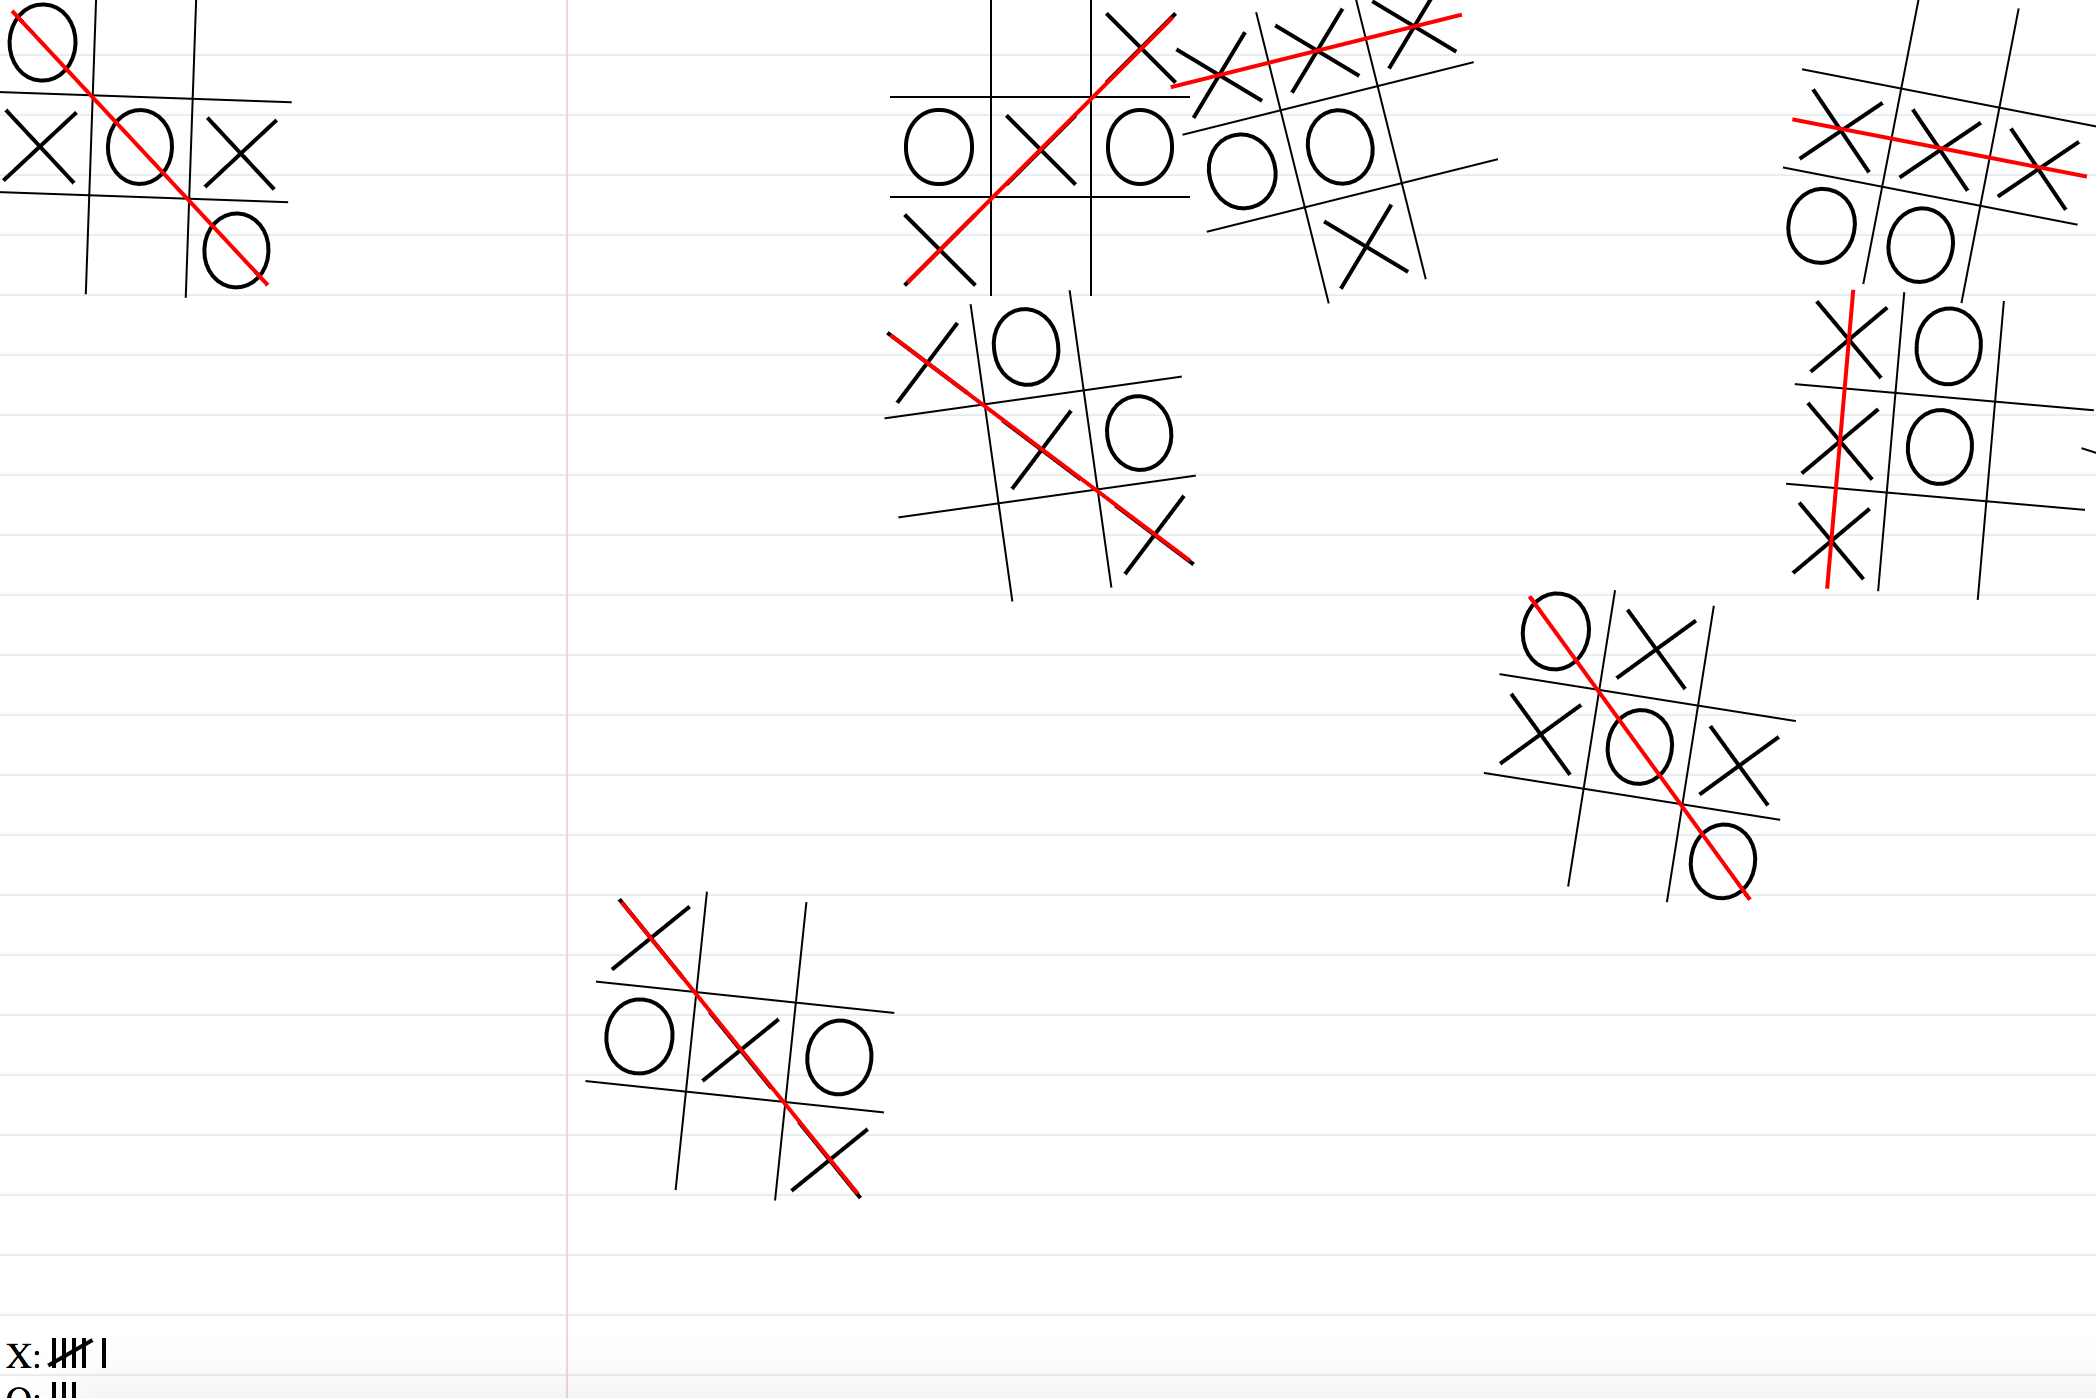
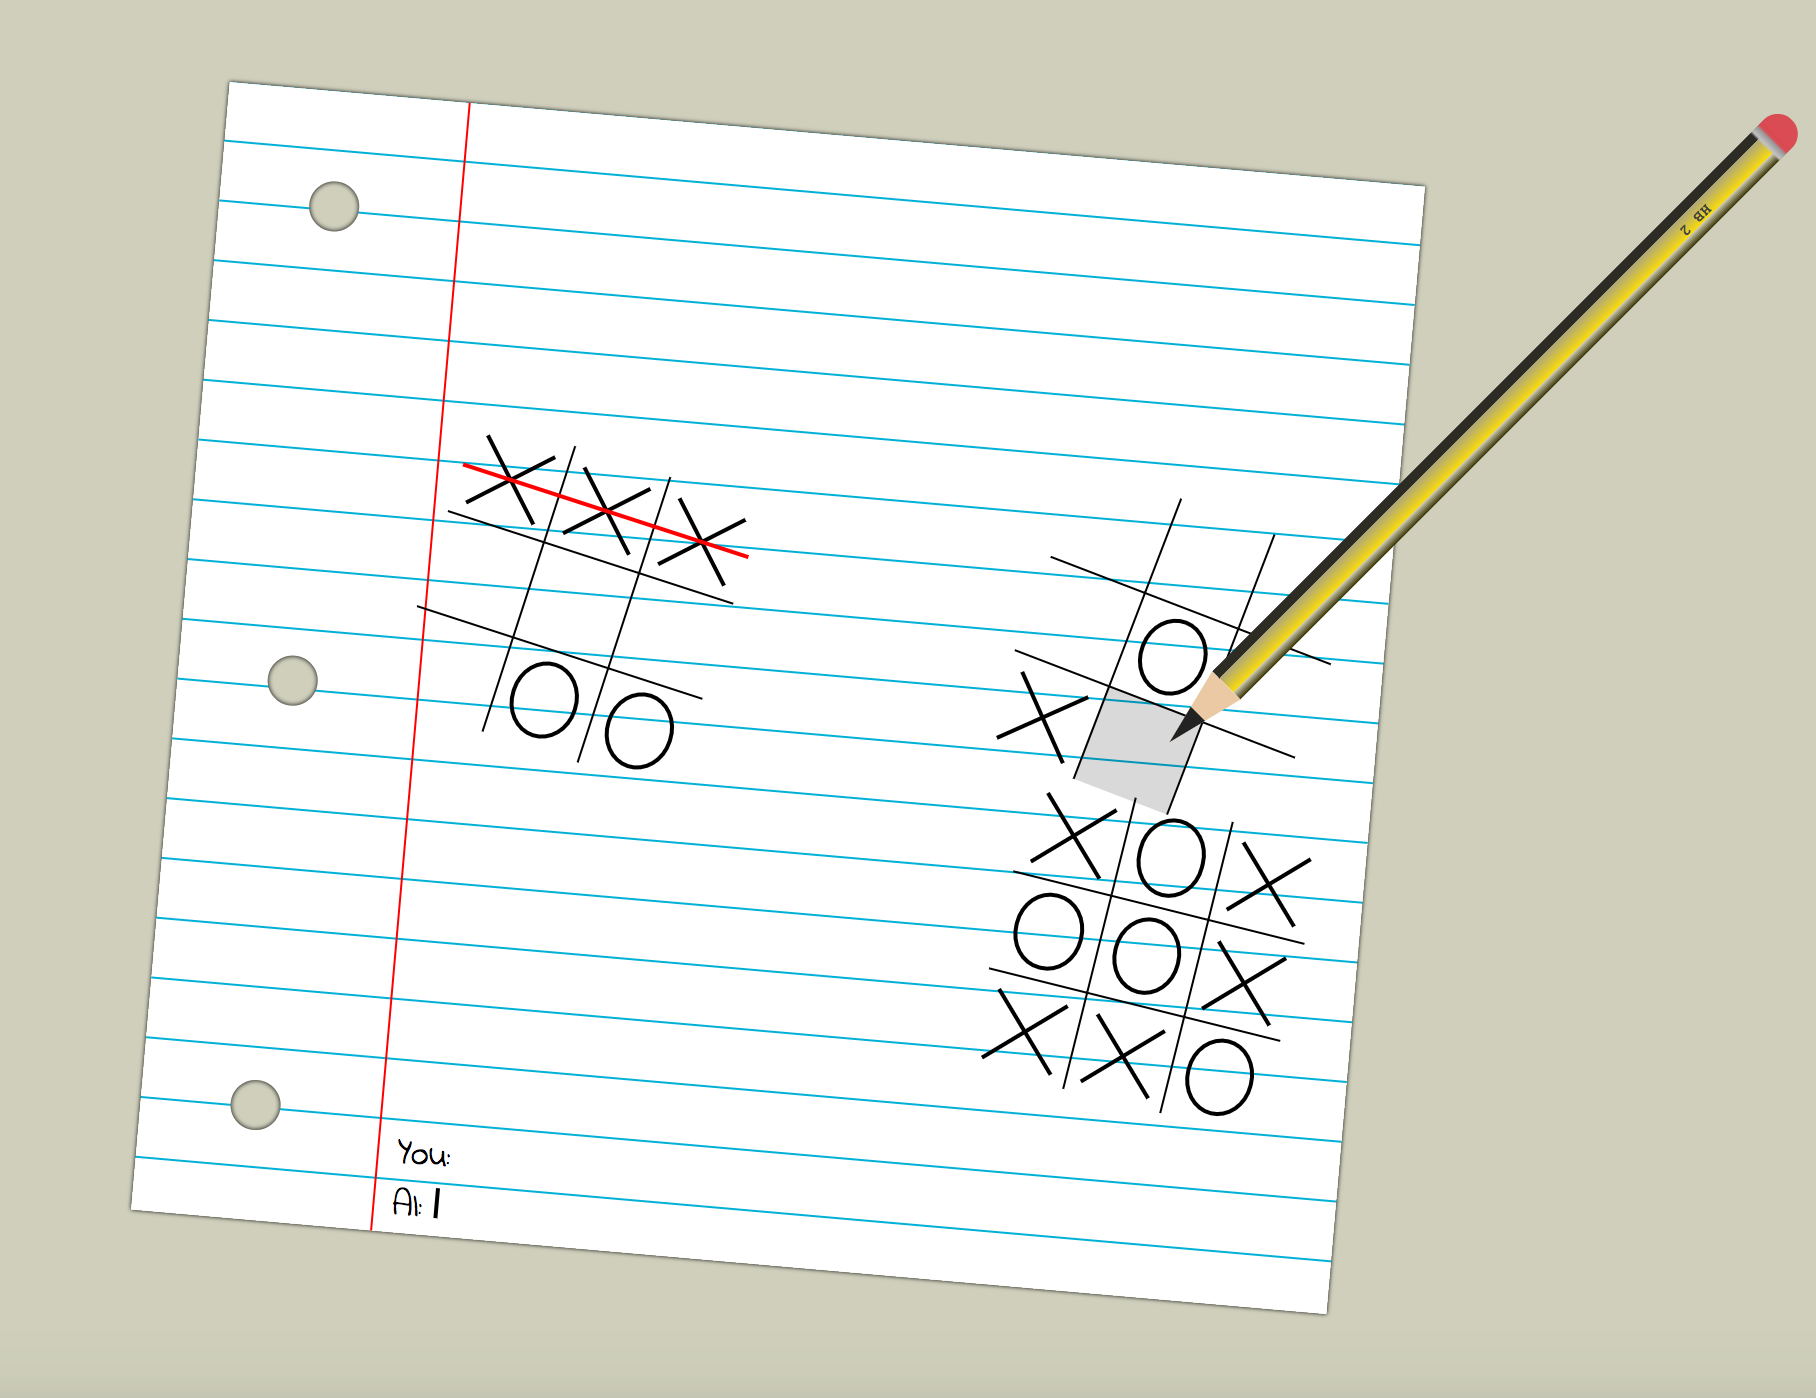
Improved graphics.

diff --git a/src/index.scss b/src/index.scss
@@ -1,10 +1,25 @@
+@import url(https://fonts.googleapis.com/css?family=Indie+Flower);
+
 *, *::before, *::after {
     box-sizing: border-box;
 }
 
 body {
-    background: linear-gradient(to top, #dfe8ec 0%, #fff 5%) 0 60px;
+    font-family: 'Indie Flower';
+    background-color: #cfcfbc;
+}
+
+.page {
+    background: linear-gradient(180deg, #fff 29px, #00b0d7 0);
     background-size: 100% 30px;
+    position: absolute;
+    height: 80%;
+    width: 600px;
+    top: 10%;
+    left: 50%;
+    transform: translateX(-50%) rotate(5deg);
+    box-shadow: 0 0 2px 0 #000;
+    padding: 10px;
 
     &::after {
         content: '';
@@ -13,8 +28,30 @@ body {
         top: 0;
         left: 20%;
         bottom: 0;
-        border-left: 1px solid #f8d3d3;
+        border-left: 1px solid #f00;
         z-index: -1;
+    }
+
+    &__hole {
+        position: absolute;
+        left: 45px;
+        height: 25px;
+        width: 25px;
+        background: #cfcfbc;
+        border-radius: 50%;
+        box-shadow: inset 0 0 2px 0 #000;
+
+        &--top {
+            top: 45px;
+        }
+
+        &--center {
+            top: 50%;
+        }
+
+        &--bottom {
+            bottom: 45px;
+        }
     }
 }
 
@@ -140,12 +177,19 @@ body {
             left: 14%;
         }
     }
+
+    &:not(.field--X):not(.field--O) {
+        &:hover {
+            background-color: rgba(0, 0, 0, .15);
+        }
+    }
 }
 
 .state {
     font-size: 18px;
     position: absolute;
     bottom: 0;
+    left: 130px;
 }
 
 .wins {
@@ -165,6 +209,62 @@ body {
 
         &:nth-child(5n) {
             transform: rotate(60deg) scale(1, 1.7) translateX(-6px) translateY(6px);
+        }
+    }
+}
+
+.pencil {
+    width: 480px;
+    height: 20px;
+    position: absolute;
+    left: 0;
+    top: 0;
+    border-radius: 0 50px 50px 0;
+    transform: rotate(135deg) translateX(-85px) translateY(179px);
+    z-index: 1;
+    pointer-events: none;
+
+    &:before {
+        content: "HB 2";
+        top: 4px;
+        left: 100px;
+        color: #000;
+        font-size: 8px;
+        text-transform: uppercase;
+        font-family: monospace;
+        font-weight: bold;
+        position: absolute;
+        z-index: 1;
+    }
+
+    &__inner {
+        position: absolute;
+        border-radius: 10px 0 0 10px;
+        left: 40px;
+        top: 0;
+        width: 400px;
+        height: 20px;
+        background-image: linear-gradient(90deg, #d94d55, #db4a53 15px, #999 0, #d7d7d7 20px, hsla(0, 0%, 100%, 0) 0), linear-gradient(180deg, #363100, #d2cfb5 5px, #fadc0b 0, #aca67d 15px, #2c2b24 0);
+
+        &::before,
+        &::after {
+            content: '';
+            position: absolute;
+            right: -40px;
+            width: 0;
+            height: 0;
+            border-style: solid;
+        }
+
+        &::before {
+            border-width: 10px 0 10px 40px;
+            border-color: transparent transparent transparent #edc9a6;
+        }
+
+        &::after {
+            top: 5px;
+            border-width: 5px 0 5px 20px;
+            border-color: transparent transparent transparent #222;
         }
     }
 }

diff --git a/src/index.js b/src/index.js
@@ -1,5 +1,6 @@
 import './index.scss';
 
+const pageEl = document.getElementById('js-page');
 const humanWinsEl = document.getElementById('js-human-wins');
 const aiWinsEl = document.getElementById('js-ai-wins');
 
@@ -189,20 +190,30 @@ const startGame = () => {
         containerEl.appendChild(fieldEl);
     }
 
-    const cols = ~~(window.innerHeight / 150);
-    const rows = ~~(window.innerWidth / 150);
-    if (games.length === cols * rows - 1) return;
+    const { width, height } = pageEl.getBoundingClientRect();
+    const cols = ~~((height - 40) / 150);
+    const rows = ~~((width - 60) / 150);
+    if (games.length === cols * rows) return;
     const position = getRandomPosition(rows, cols);
 
-    containerEl.style.left = `${position.y * 150}px`;
-    containerEl.style.top = `${position.x * 150}px`;
+    containerEl.style.left = `${position.y * 150 + 120}px`;
+    containerEl.style.top = `${position.x * 150 + 20}px`;
     containerEl.style.transform = `rotate(${Math.random() >= 0.5 ? '-' : ''}${Math.floor(Math.random() * 30)}deg)`;
 
-    document.body.appendChild(containerEl);
+    pageEl.appendChild(containerEl);
 
     if (AI === 'X') {
         makeAImove(containerEl);
     }
 };
+
+const handlePenMove = pen => ({ pageX, pageY }) => {
+    pen.style.left = pageX + 'px';
+    pen.style.top = pageY + 'px';
+};
+
+const penEl = document.getElementById('js-pencil');
+
+pageEl.addEventListener('mousemove', handlePenMove(penEl));
 
 startGame();

diff --git a/src/index.html b/src/index.html
@@ -6,13 +6,23 @@
     <title>Tic-Tac-Toe</title>
 </head>
 <body>
-    <div class="state" id="js-state">
-        <div>
-            You: <div class="wins" id="js-human-wins"></div>
+    <div class="page" id="js-page">
+        <div class="page__hole page__hole--top"></div>
+        <div class="page__hole page__hole--center"></div>
+        <div class="page__hole page__hole--bottom"></div>
+        <div class="state" id="js-state">
+            <div>
+                You:
+                <div class="wins" id="js-human-wins"></div>
+            </div>
+            <div>
+                AI:
+                <div class="wins" id="js-ai-wins"></div>
+            </div>
         </div>
-        <div>
-            AI: <div class="wins" id="js-ai-wins"></div>
-        </div>
+    </div>
+    <div class="pencil" id="js-pencil">
+        <div class="pencil__inner"></div>
     </div>
     <script type="text/javascript" src="%CDN_URL%main.js"></script>
 </body>
